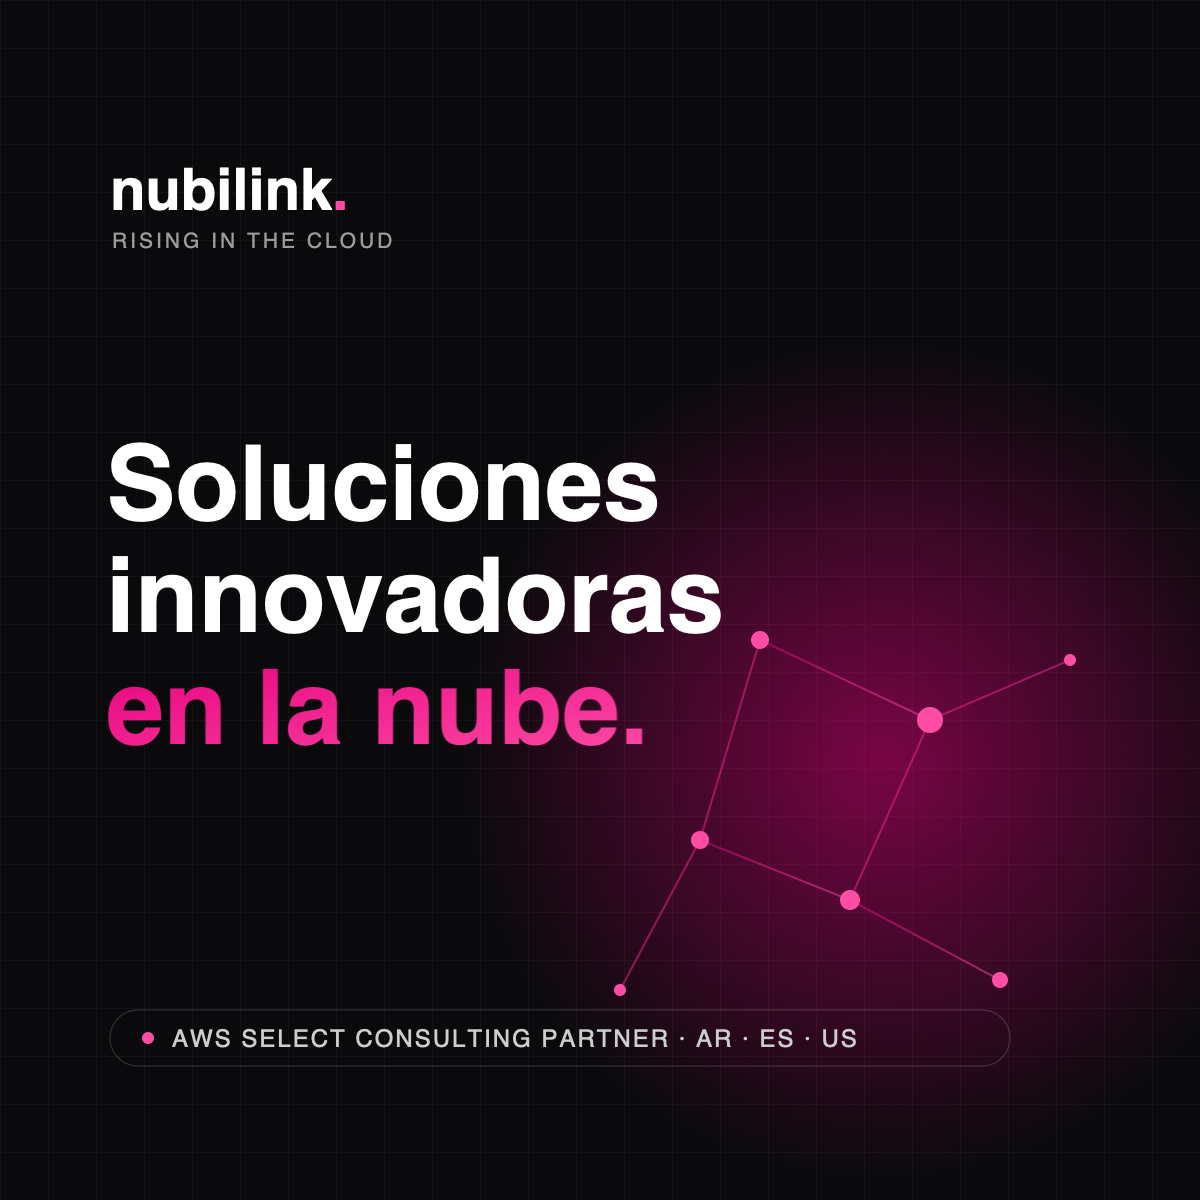
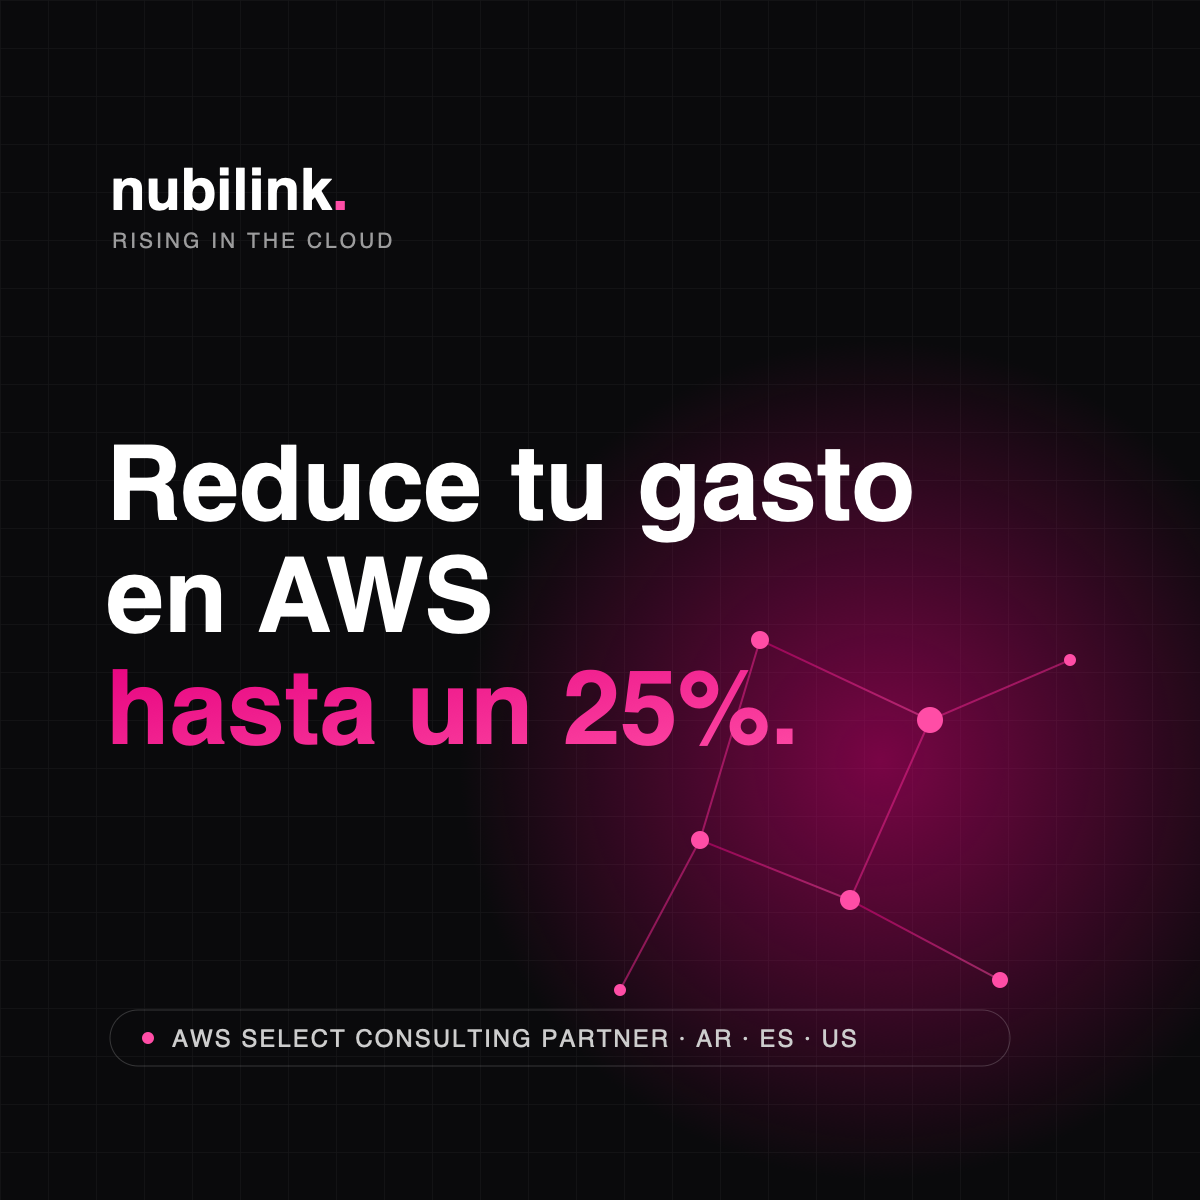
OG card: mirror the new outcome-led hero
Regenerate the share image to match the new H1 ("Reduce tu gasto en
AWS / hasta un 25%.") instead of the old tagline, and update
og:image:alt to match — so link previews carry the same conversion
message as the page.

Changed region(s): [[0.0925, 0.37, 0.7708, 0.5242], [0.0925, 0.555, 0.6783, 0.6475]]

diff --git a/index.html b/index.html
@@ -17,7 +17,7 @@
 <meta property="og:image" content="https://gagrosso.github.io/nubilink/og/nubilink-og.png">
 <meta property="og:image:width" content="1200">
 <meta property="og:image:height" content="1200">
-<meta property="og:image:alt" content="Nubilink — Soluciones innovadoras en la nube. AWS Select Consulting Partner.">
+<meta property="og:image:alt" content="Nubilink — Reduce tu gasto en AWS hasta un 25%. AWS Select Consulting Partner.">
 <meta name="twitter:card" content="summary">
 <meta name="twitter:title" content="Nubilink — Soluciones innovadoras en la nube">
 <meta name="twitter:description" content="AWS Select Consulting Partner. Diseño, migración y operación de tu infraestructura en AWS. AR · ES · US.">